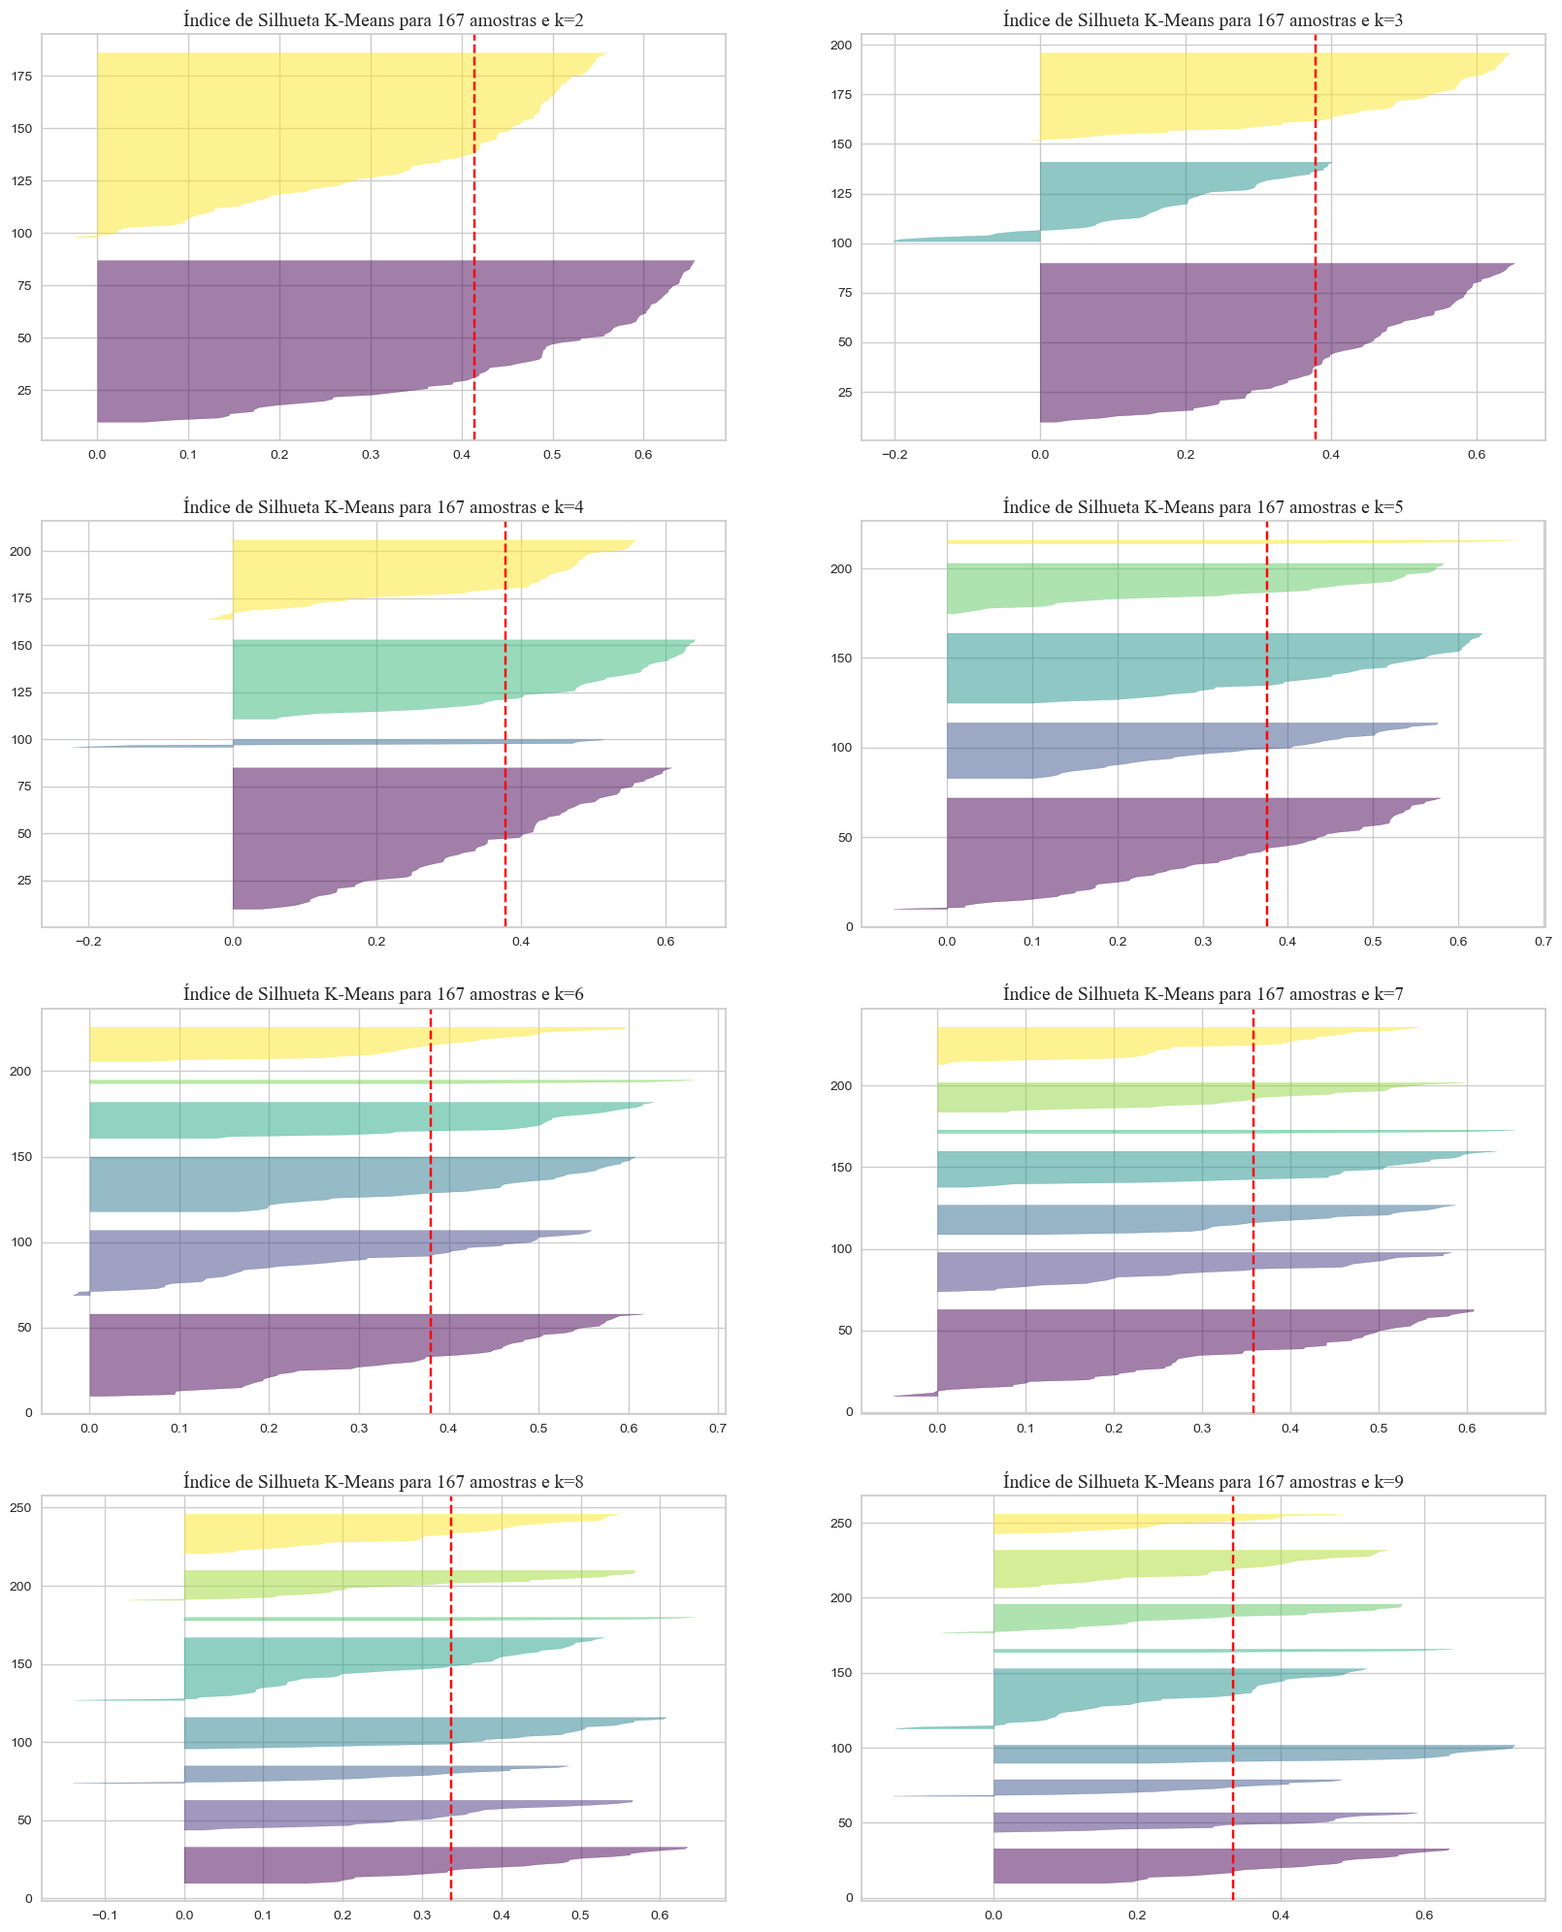
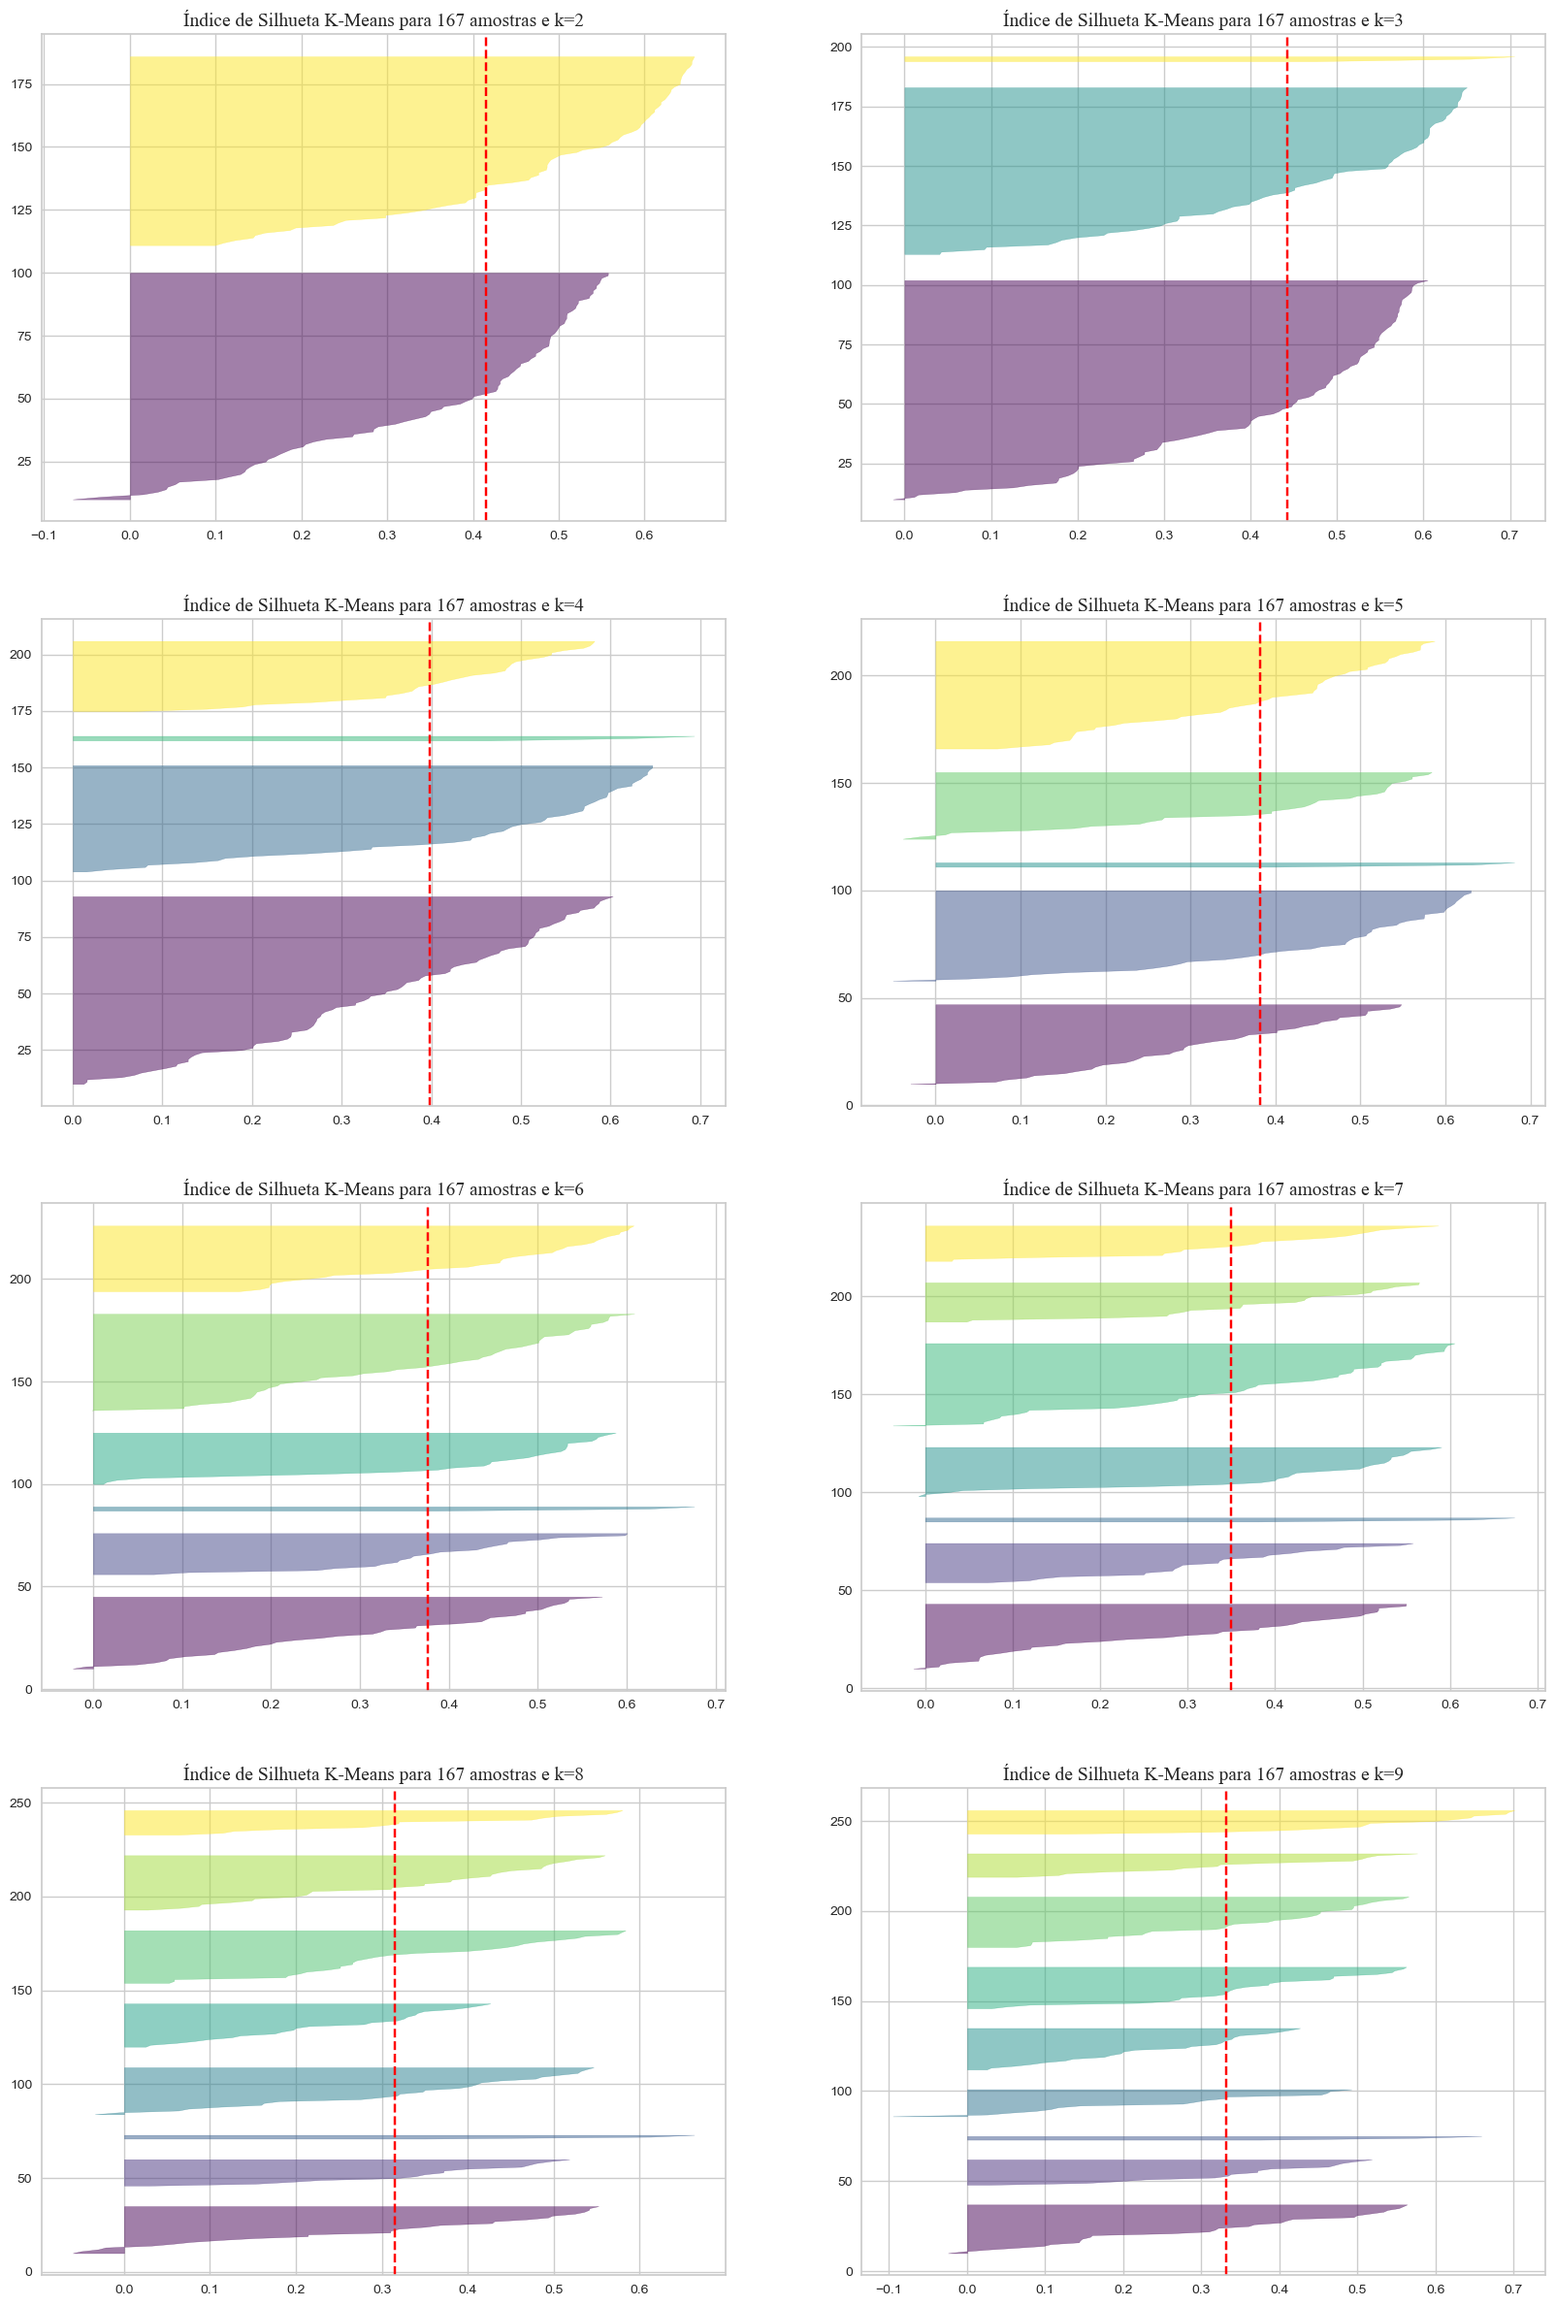
Update README.md

diff --git a/README.md b/README.md
@@ -1,6 +1,6 @@
 # Projeto de Disciplina - Algoritmos de Inteligência Artificial para Clusterização [25E4_2]
 
-u## Infraestrutura
+## Infraestrutura
 
 Para as questões a seguir, você deverá executar códigos em um notebook Jupyter, rodando em ambiente local, certifique-se que:
 
@@ -10,19 +10,19 @@ Para as questões a seguir, você deverá executar códigos em um notebook Jupyt
 > Respondido no item 3 e 5.
 3. Todas as bibliotecas usadas nesse exercícios estão instaladas em um ambiente virtual específico
 
-    <!-- ![printscreen3](printscreen3.png "printscreen3") -->
+> ![printscreen3](images/printscreen3.png "printscreen3")
 
 4. Gere um arquivo de requerimentos (requirements.txt) com os pacotes necessários. É necessário se certificar que a versão do pacote está disponibilizada.
 > [requirements.txt](requirements.txt)
 5. Tire um printscreen do ambiente que será usado rodando em sua máquina.
 
-<!-- ![printscreen1](printscreen1.png "printscreen1")
-![printscreen2](printscreen2.png "printscreen2")
-![printscreen4](printscreen4.png "printscreen4") -->
+![printscreen1](images/printscreen1.png "printscreen1")
+![printscreen2](images/printscreen2.png "printscreen2")
+![printscreen4](images/printscreen4.png "printscreen4")
 
 6. Disponibilize os códigos gerados, assim como os artefatos acessórios (requirements.txt) e instruções em um repositório GIT público. (se isso não for feito, o diretório com esses arquivos deverá ser enviado compactado no moodle).
 
-> https://github.com/rabreu/Infnet-MIT-IA-Clustering-PdD01
+> https://github.com/rabreu/Infnet-MIT-IA-Clustering-PD-25E4_2
 
 ## Escolha de base de dados
 
@@ -42,22 +42,36 @@ Para os dados pré-processados da etapa anterior você irá:
 
 1. Realizar o agrupamento dos países em 3 grupos distintos. Para tal, use:
     - K-Médias
+      > [Execução K-Means, Hierarquical Agglomerative e DBSCAN para k=3](#Execução-K-Means,-Hierarquical-Agglomerative-e-DBSCAN-para-k=3)
     - Clusterização Hierárquica
       > [Execução K-Means, Hierarquical Agglomerative e DBSCAN para k=3](#Execução-K-Means,-Hierarquical-Agglomerative-e-DBSCAN-para-k=3)
 2. Para os resultados, do K-Médias:
     - Interprete cada um dos clusters obtidos citando:
       - Qual a distribuição das dimensões em cada grupo
+        > Podemos separar três grupos por diferenças socioeconomicas: Países desenvolvidos, em desenvolvimento e subdesenvolvidos.
       - O país, de acordo com o algoritmo, melhor representa o seu agrupamento. Justifique
 3. Para os resultados da Clusterização Hierárquica, apresente o dendograma e interprete os resultados
 > [Dendrogramas e Análise](#Dendrogramas-e-Análise)
 4. Compare os dois resultados, aponte as semelhanças e diferenças e interprete.
+> [Comparação entre K-Means e Hierarchical Agglomerative](#Comparação-entre-K-Means-e-Hierarchical-Agglomerative)
 
 ## Escolha de algoritmos
 
 1. Escreva em tópicos as etapas do algoritmo de K-médias até sua convergência.
+    > - Escolher o número de clusters K.
+    > - Selecionar centróides iniciais.
+    > - Atribuir cada ponto ao centróide mais próximo.
+    > - Recalcular os centróides (média dos pontos).
+    > - Repetir até os centróides não mudarem mais.
 2. O algoritmo de K-médias converge até encontrar os centróides que melhor descrevem os clusters encontrados (até o deslocamento entre as interações dos centróides ser mínimo). Lembrando que o centróide é o baricentro do cluster em questão e não representa, em via de regra, um dado existente na base. Refaça o algoritmo apresentado na questão 1 a fim de garantir que o cluster seja representado pelo dado mais próximo ao seu baricentro em todas as iterações do algoritmo. Obs: nesse novo algoritmo, o dado escolhido será chamado medóide.
+    > - Escolher K pontos reais como medóides.
+    > - Atribuir cada ponto ao medóide mais próximo.
+    > - Calcular o novo medóide (ponto real mais próximo do centro).
+    > - Repetir até os medóides não mudarem mais.
 3. O algoritmo de K-médias é sensível a outliers nos dados. Explique.
+    > Sim. As médias dos _outliers_ acabam _puxando_ o centróide para fora do centro causando uma distorção.
 4. Por que o algoritmo de DBScan é mais robusto à presença de outliers?
+    > Porque ele não se baseia em média - que é a raiz do problema acima - mas na densidade (parâmetro _eps/epsilon_), entretanto é necessário ajustar essa entrada dependendo dos objetivos da análise.
 
 Assim que terminar, salve o seu arquivo PDF e poste no Moodle. Utilize o seu nome para nomear o arquivo, identificando também a disciplina no seguinte formato: “nomedoaluno_nomedadisciplina_pd.PDF”.
 
@@ -68,10 +82,12 @@ Assim que terminar, salve o seu arquivo PDF e poste no Moodle. Utilize o seu nom
 import pandas as pd
 import matplotlib.pyplot as plt
 import seaborn as sb
+import numpy as np
 from sklearn.datasets import make_blobs
 from sklearn import preprocessing as preproc
 from scipy.cluster import hierarchy
 from sklearn.cluster import KMeans, DBSCAN, AgglomerativeClustering
+from sklearn_extra.cluster import KMedoids
 from yellowbrick.cluster import SilhouetteVisualizer, KElbowVisualizer
 from sklearn.decomposition import PCA
 
@@ -84,11 +100,13 @@ RIGHT_dec_format = lambda x: x.__str__().replace(',','').replace('.',',')
 print("Pandas version:", pd.__version__)
 print("Matplotlib version:", plt.matplotlib.__version__)
 print("Seaborn version:", sb.__version__)
+print("Numpy version:", np.__version__)
 ```
 
     Pandas version: 2.3.3
     Matplotlib version: 3.10.7
     Seaborn version: 0.13.2
+    Numpy version: 1.26.4
     
 
 ## Importação e Normalização dos Dados
@@ -267,7 +285,7 @@ dataset
            [ 0.44841668, -0.40647827, -0.59727159, ..., -0.34463279,
              1.14094382, -0.63775406],
            [ 1.11495062, -0.15034774, -0.33801514, ..., -2.09278484,
-             1.6246091 , -0.62954556]], shape=(167, 9))
+             1.6246091 , -0.62954556]])
 
 
 
@@ -601,11 +619,11 @@ X, labels = make_blobs(n_samples=N_COUNTRIES, n_features=2, random_state=42)
 
 ```python
 f, ax = plt.subplots(4, 2)
-f.set_figheight(25)
+f.set_figheight(30)
 f.set_figwidth(20)
 
 for i in range(2,10):
-    kmeans = KMeans(n_clusters=i, random_state=42)
+    kmeans = KMeans(n_clusters=i, random_state=42, n_init='auto')
     q, mod = divmod(i, 2)
     sv = SilhouetteVisualizer(
         kmeans,
@@ -643,15 +661,15 @@ f, ax = plt.subplots(3)
 f.set_figheight(15)
 f.set_figwidth(10)
 
-v1 = KElbowVisualizer(KMeans(), k=9, ax=ax[0])
+v1 = KElbowVisualizer(KMeans(n_init='auto'), k=9, ax=ax[0])
 v1.fit(dataset_pca)
 v1.finalize()
 
-v2 = KElbowVisualizer(KMeans(), k=12, ax=ax[1])
+v2 = KElbowVisualizer(KMeans(n_init='auto'), k=12, ax=ax[1])
 v2.fit(dataset_pca)
 v2.finalize()
 
-v3 = KElbowVisualizer(KMeans(), k=15, ax=ax[2])
+v3 = KElbowVisualizer(KMeans(n_init='auto'), k=15, ax=ax[2])
 v3.fit(dataset_pca)
 v3.finalize()
 
@@ -667,7 +685,7 @@ plt.show()
     
 
 
-Define como variável global a quantidade ótima de clusters encontrada para utiliza-la como entrada para
+Define como variável global a quantidade ótima de clusters encontrada para utiliza-la como entrada.
 
 
 ```python
@@ -682,7 +700,7 @@ hues = pd.Series()
 EPS=0.35
 NCLUSTERS=3
 
-kmeans = KMeans(n_clusters=NCLUSTERS).fit(dataset_pca)
+kmeans = KMeans(n_clusters=NCLUSTERS, n_init='auto').fit(dataset_pca)
 hues['kmeans'] = kmeans.labels_
 
 ward = AgglomerativeClustering(n_clusters=NCLUSTERS, linkage='ward', metric='euclidean').fit(dataset_pca)
@@ -750,6 +768,37 @@ ax[2].grid(False)
     
 
 
+### Comparação entre K-Means e Hierarchical Agglomerative
+
+
+| Algoritmo  | Conclusões                                                               |
+|:-----------|:-------------------------------------------------------------------------|
+| K-Means     | Os três grupos são separados conforme definimos de forma socioeconomica. Os países mais dispersos foram incluídos no grupo 1. Podemos verificar também que os grupos 0 e 2 são mais densos - respectivamentes - em comparação ao grupo 3.|
+|  Hierarchical Agglomerative - Ward  | Foram divididos em três grupos. Um dos grupos somente para os países influênciados pelo _outliers_. Os outros dois foram divididos por caracteristicas socioeconomicas. |
+
+### Países que melhores representam seu agrupamento
+
+
+```python
+kmedoids = KMedoids(n_clusters=NCLUSTERS).fit(dataset_pca)
+
+countries_meloids = []
+
+for k in range(len(kmedoids.medoid_indices_)):
+    countries_meloids.append(dataset_raw.iloc[kmedoids.medoid_indices_[k], 0])
+
+countries_meloids
+```
+
+
+
+
+    ['Morocco', 'Benin', 'South Korea']
+
+
+
+O melóide de cada cluster é o que melhor representa seu cluster.
+
 ## Execução K-Means, Hierarquical Agglomerative e DBSCAN para k=4 (Quantidade Ótima)
 
 
@@ -757,7 +806,7 @@ ax[2].grid(False)
 hues = pd.Series()
 EPS=0.35
 
-kmeans = KMeans(n_clusters=OPTIMAL_NCLUSTERS).fit(dataset_pca)
+kmeans = KMeans(n_clusters=OPTIMAL_NCLUSTERS, n_init='auto').fit(dataset_pca)
 hues['kmeans'] = kmeans.labels_
 
 ward = AgglomerativeClustering(n_clusters=OPTIMAL_NCLUSTERS, linkage='ward', metric='euclidean').fit(dataset_pca)
@@ -822,7 +871,7 @@ ax[2].grid(False)
 
 
     
-![png](images/output_36_0.png)
+![png](images/output_41_0.png)
     
 
 
@@ -834,14 +883,14 @@ hues = pd.Series()
 EPS=0.35
 NCLUSTERS=3
 
-kmeans = KMeans(n_clusters=NCLUSTERS).fit(dataset)
+kmeans = KMeans(n_clusters=NCLUSTERS, n_init='auto').fit(dataset_pca)
 hues['kmeans'] = kmeans.labels_
 
-ward = AgglomerativeClustering(n_clusters=NCLUSTERS, linkage='ward', metric='euclidean').fit(dataset)
+ward = AgglomerativeClustering(n_clusters=NCLUSTERS, linkage='ward', metric='euclidean').fit(dataset_pca)
 hues['ward'] = ward.labels_
 
-dbscan = DBSCAN(eps=EPS, min_samples=5, n_jobs=-1, metric='euclidean').fit(dataset)
-hues['dbscan'] = dbscan.fit_predict(dataset)
+dbscan = DBSCAN(eps=EPS, min_samples=5, n_jobs=-1, metric='euclidean').fit(dataset_pca)
+hues['dbscan'] = dbscan.fit_predict(dataset_pca)
 ```
 
 
@@ -908,6 +957,6 @@ plt.show()
 
 
     
-![png](images/output_39_0.png)
+![png](images/output_44_0.png)
     
 
